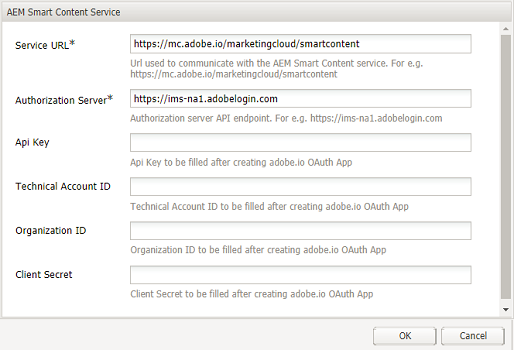
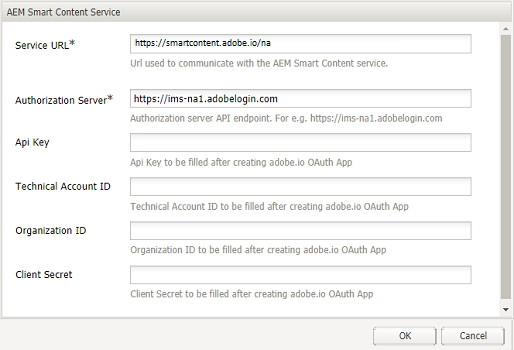
Updates based on CQDOC-19304

Changed region(s): [[0.249, 0.1143, 0.716, 0.1429], [0.249, 0.2, 0.6537, 0.2286], [0.7471, 0.1714, 0.8405, 0.2]]

diff --git a/help/assets/config-smart-tagging.md b/help/assets/config-smart-tagging.md
@@ -10,6 +10,12 @@ exl-id: 11c5dd92-f824-41d2-9ab2-b32bdeae01b6
 
 You can integrate [!DNL Adobe Experience Manager] with the Smart Content Service using [!DNL Adobe Developer Console]. Use this configuration to access the Smart Content Service from within [!DNL Experience Manager].
 
+>[!NOTE]
+>
+>* Smart Content Services is no longer available to [!DNL Experience Manager Assets] On-Premise customers. Existing On-Premise customers, who already have this capability enabled, can continue using Smart Content Services.
+>* Smart Content Services is available for existing [!DNL Experience Manager Assets] Managed Services customers, who already have this capability enabled.
+>* New [!DNL Experience Manager Assets] Managed Services customers can follow the instructions mentioned in this article to set up Smart Content Services.
+
 The article details out the following key tasks that are required to configure the Smart Content Service. At the back end, the [!DNL Experience Manager] server authenticates your service credentials with the [!DNL Adobe Developer Console] gateway before forwarding your request to the Smart Content Service.
 
 1. [Create a Smart Content Service](#obtain-public-certificate) configuration in [!DNL Experience Manager] to generate a public key. [Obtain public certificate](#obtain-public-certificate) for OAuth integration.
@@ -44,7 +50,14 @@ A public certificate allows you to authenticate your profile on [!DNL Adobe Deve
 
 1. In the **[!UICONTROL AEM Smart Content Service]** dialog, use the following values:
 
-   **[!UICONTROL Service URL]**: `https://mc.adobe.io/marketingcloud/smartcontent`
+   **[!UICONTROL Service URL]**: `https://smartcontent.adobe.io/<name-of-your-closest-region>`
+
+   For example, `https://smartcontent.adobe.io/apac`. You can specify `na`, `emea`, or, `apac` as the name of your closest region.
+
+   >[!NOTE]
+   >
+   >If you are provisioned on Smart Content Services by Adobe corporate provisioning team, use the following Service URL:
+   `https://mc.adobe.io/marketingcloud/smartcontent`
 
    **[!UICONTROL Authorization Server]**: `https://ims-na1.adobelogin.com`
 
